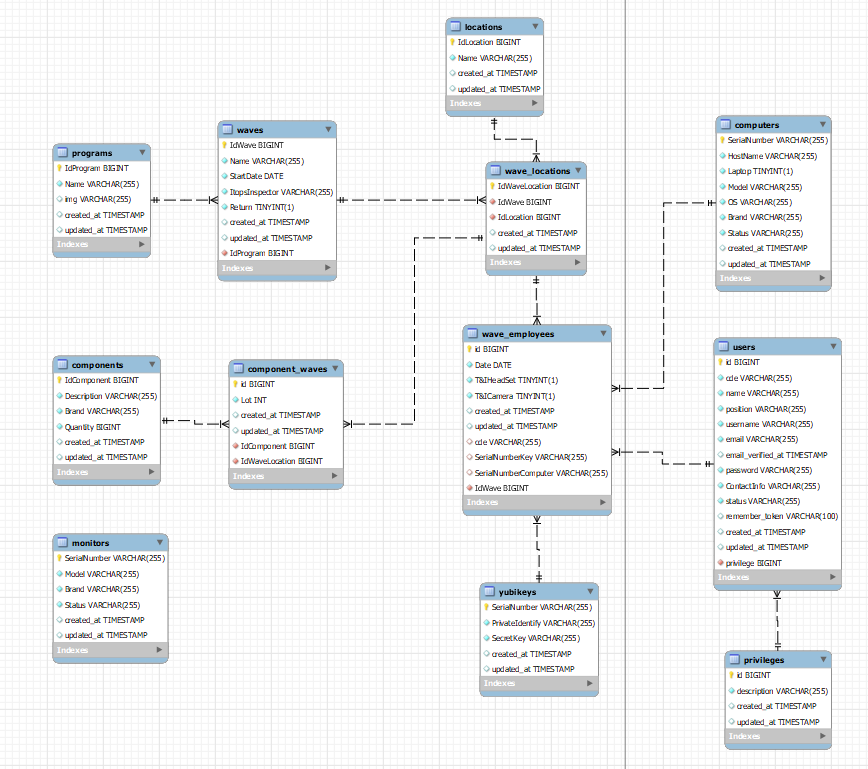
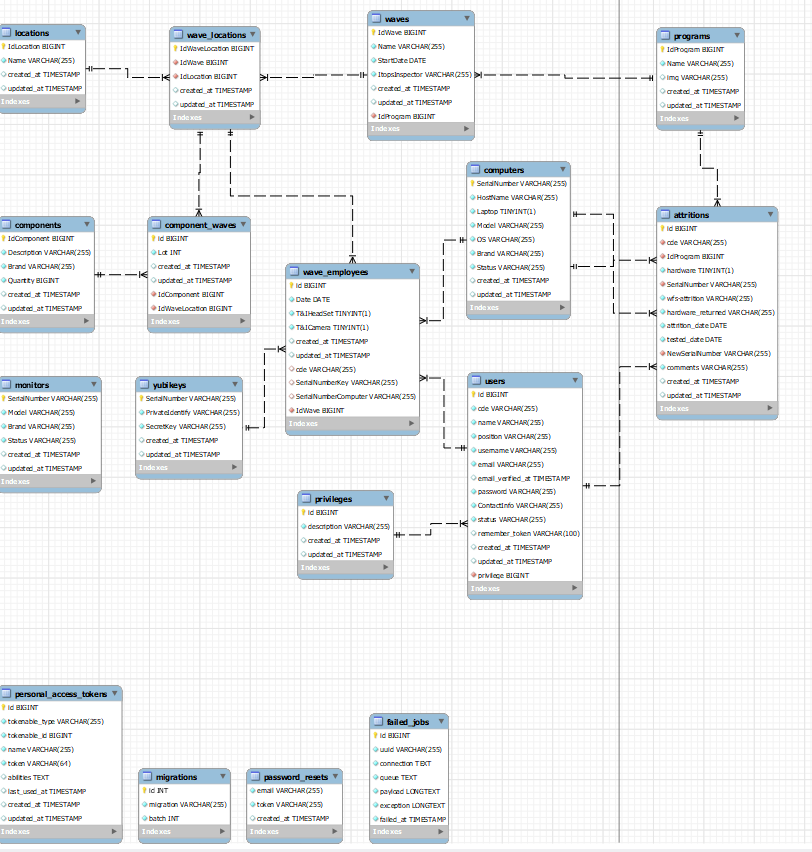
starting attrition

diff --git a/resources/views/attrition.blade.php b/resources/views/attrition.blade.php
@@ -1,0 +1,53 @@
+@extends('layouts.app')
+@section('content')
+    <div class="attrition" style="width: 70%; margin: auto">
+        <div class="row justify-content-center">
+            <div class="col-md-13">
+                <div class="card">
+                    <div class="card-header">
+                        <div class="d-inline-block fw-bold" style="width: 40%;">
+                            <a href="#" style="color: black;">Attrition</a>
+                        </div>
+                        <div style="display: inline-block; text-align: end; width: 59%;">
+                            <a href="#" class="btn-flat fw-bold border-start border-end border-3"
+                                style="font-size: 12px">INSERT</a>
+                        </div>
+                    </div>
+                    <div class="card-body" style="height: max-content">
+                        @if (session()->has('message'))
+                            <div class="alert alert-{{ session()->get('alert') }}" role="alert"
+                                style="width: 65%; margin: auto;">
+                                {{ session()->get('message') }}
+                                @if (session()->has('th'))
+                                    <div class="accordion" id="accordionExample" style="background-color: none;">
+
+                                        <div class="accordion-item" style="border-color: black;">
+                                            <h2 class="accordion-header" id="headingThree"
+                                                style=" background-color: none; margin-top: 0px;">
+                                                <button class="accordion-button collapsed" type="button"
+                                                    data-bs-toggle="collapse" data-bs-target="#collapseThree"
+                                                    aria-expanded="false" aria-controls="collapseThree">
+                                                    <strong style="overflow: hidden; max-height: 18px ">
+                                                        {{ session()->get('th') }}</strong>
+                                                </button>
+                                            </h2>
+                                            <div id="collapseThree" class="accordion-collapse collapse"
+                                                aria-labelledby="headingThree" data-bs-parent="#accordionExample">
+                                                <div class="accordion-body">
+                                                    <strong> {{ session()->get('th') }}</strong>
+                                                </div>
+                                            </div>
+                                        </div>
+                                    </div>
+                                @endif
+                            </div>
+                        @endif
+                        <div>
+
+                        </div>
+                    </div>
+                </div>
+            </div>
+        </div>
+    </div>
+@endsection

diff --git a/database/seeders/UsersTableSeeder.php b/database/seeders/UsersTableSeeder.php
@@ -171,7 +171,7 @@ class UsersTableSeeder extends Seeder
         $user13->status = "Active";
         $user13->privilege = 30001;
         $user13->save();
-        
+
         $user14 = new User();
         $user14->cde = "C222238";
         $user14->name = "Laura Virginia Pena Cabrera";
@@ -183,7 +183,7 @@ class UsersTableSeeder extends Seeder
         $user14->status = "Active";
         $user14->privilege = 30001;
         $user14->save();
-        
+
         $user15 = new User();
         $user15->cde = "C222450";
         $user15->name = "Angela Tatiana Garzon Martinez";
@@ -195,7 +195,7 @@ class UsersTableSeeder extends Seeder
         $user15->status = "Active";
         $user15->privilege = 30001;
         $user15->save();
-        
+
         $user16 = new User();
         $user16->cde = "C222426";
         $user16->name = "Jose Lisandro Mora Fiesco";
@@ -207,5 +207,17 @@ class UsersTableSeeder extends Seeder
         $user16->status = "Active";
         $user16->privilege = 30001;
         $user16->save();
+
+        $user17 = new User();
+        $user17->cde = "C212990";
+        $user17->name = "Laura Alejandra Acero Amaya";
+        $user17->position = "HR Intern";
+        $user17->username = "laura.amaya";
+        $user17->password = Hash::make('Bogota2022*');
+        $user17->email = "laura.amaya@24-7intouch.com";
+        $user17->ContactInfo = "3229455501";
+        $user17->status = "Active";
+        $user17->privilege = 50001;
+        $user17->save();
     }
 }

diff --git a/database/migrations/2022_08_03_183802_create_attritions_table.php b/database/migrations/2022_08_03_183802_create_attritions_table.php
@@ -1,0 +1,46 @@
+<?php
+
+use Illuminate\Database\Migrations\Migration;
+use Illuminate\Database\Schema\Blueprint;
+use Illuminate\Support\Facades\Schema;
+
+return new class extends Migration
+{
+    /**
+     * Run the migrations.
+     *
+     * @return void
+     */
+    public function up()
+    {
+        Schema::create('attritions', function (Blueprint $table) {
+            $table->id();
+            $table->string('cde');
+            $table->unsignedBigInteger('IdProgram');
+            $table->boolean('hardware');
+            $table->string('SerialNumber');
+            $table->string('wfs-attrition');
+            $table->string('hardware_returned');
+            $table->date('attrition_date');
+            $table->date('tested_date')->nullable();
+            $table->string('NewSerialNumber')->nullable();
+            $table->string('comments');
+            $table->timestamps();
+
+            $table->foreign('cde')->references('cde')->on('users');
+            $table->foreign('IdProgram')->references('IdProgram')->on('programs');
+            $table->foreign('SerialNumber')->references('SerialNumber')->on('computers');
+            $table->foreign('NewSerialNumber')->references('SerialNumber')->on('computers');
+        });
+    }
+
+    /**
+     * Reverse the migrations.
+     *
+     * @return void
+     */
+    public function down()
+    {
+        Schema::dropIfExists('attritions');
+    }
+};

diff --git a/resources/views/layouts/app.blade.php b/resources/views/layouts/app.blade.php
@@ -109,8 +109,7 @@
                                         href="{{ route('users.list') }}">{{ __('Users') }}</a>
                                 </li>
                                 <li class="nav-item">
-                                    <a class="ms-2 h-75 nav-link text-light"
-                                        href="/home/wave/6/101">{{ __('Attrition') }}</a>
+                                    <a class="ms-2 h-75 nav-link text-light" href="/attrition">{{ __('Attrition') }}</a>
                                 </li>
                                 <li class="nav-item">
                                     <a class="ms-2 h-75 nav-link text-light"
@@ -132,12 +131,6 @@
                                         href="{{ route('login') }}">{{ __('Login') }}</a>
                                 </li>
                             @endif
-
-                            <!-- @if (Route::has('register'))
-    <li class="nav-item">
-                                        <a class="nav-link text-light" href="{{ route('register') }}">{{ __('Register') }}</a>
-                                    </li>
-    @endif -->
                         @else
                             <li class="nav-item dropdown">
                                 <a id="navbarDropdown" class="h-75 nav-link dropdown-toggle text-light fw-bold"

diff --git a/database/seeders/WavesTableSeeder.php b/database/seeders/WavesTableSeeder.php
@@ -51,13 +51,6 @@ class WavesTableSeeder extends Seeder
         $wave4->IdProgram = 1;
         $wave4->save();
 
-        $wave5 = new Wave();
-        $wave5->Name = "Attrition";
-        $wave5->StartDate = "2022-01-01";
-        $wave5->ItopsInspector = "SD";
-        $wave5->IdProgram = 1;
-        $wave5->save();
-
         $waveLocation = new WaveLocation();
         $waveLocation->IdWave = 5;
         $waveLocation->IdLocation = 101;
@@ -80,11 +73,6 @@ class WavesTableSeeder extends Seeder
 
         $waveLocation = new WaveLocation();
         $waveLocation->IdWave = 4;
-        $waveLocation->IdLocation = 101;
-        $waveLocation->save();
-
-        $waveLocation = new WaveLocation();
-        $waveLocation->IdWave = 6;
         $waveLocation->IdLocation = 101;
         $waveLocation->save();
     }

diff --git a/routes/web.php b/routes/web.php
@@ -1,5 +1,6 @@
 <?php
 
+use App\Http\Controllers\AttritionController;
 use App\Http\Controllers\ComputerController;
 use App\Http\Controllers\HomeController;
 use App\Http\Controllers\InventoryController;
@@ -89,6 +90,10 @@ Route::get('/home/wave/{IdWave}/{location}/inventory', [WaveController::class, '
 
 #Ruta de gestion del inventario
 Route::get('/home/inventory', [InventoryController::class, 'index'])->name('inventory.index');
+
+
+#Ruta del attrition
+Route::get('/attrition', [AttritionController::class, 'index'])->name('attrition.index');
 
 
 #Rutas para el login

diff --git a/app/Http/Controllers/AttritionController.php b/app/Http/Controllers/AttritionController.php
@@ -1,0 +1,23 @@
+<?php
+
+namespace App\Http\Controllers;
+
+use Illuminate\Http\Request;
+
+class AttritionController extends Controller
+{
+    /**
+     * Metodo contructor que valida el inicio de sesion
+     * y los privilegios necesarios para acceder
+     */
+    public function __construct()
+    {
+        $this->middleware('admin');
+        $this->middleware('auth');
+    }
+
+    public function index()
+    {
+        return view('attrition');
+    }
+}

diff --git a/database/seeders/PrivilegesTableSeeder.php b/database/seeders/PrivilegesTableSeeder.php
@@ -30,6 +30,11 @@ class PrivilegesTableSeeder extends Seeder
         $privilege3->description = "IT Privileges";
         $privilege3->save();
 
+        $privilege5 = new privilege;
+        $privilege5->id = 50001;
+        $privilege5->description = "HR Privileges";
+        $privilege5->save();
+
         $privilege4 = new privilege;
         $privilege4->id = 40001;
         $privilege4->description = "Agent Privileges";

diff --git a/app/Models/Attrition.php b/app/Models/Attrition.php
@@ -1,0 +1,11 @@
+<?php
+
+namespace App\Models;
+
+use Illuminate\Database\Eloquent\Factories\HasFactory;
+use Illuminate\Database\Eloquent\Model;
+
+class Attrition extends Model
+{
+    use HasFactory;
+}
